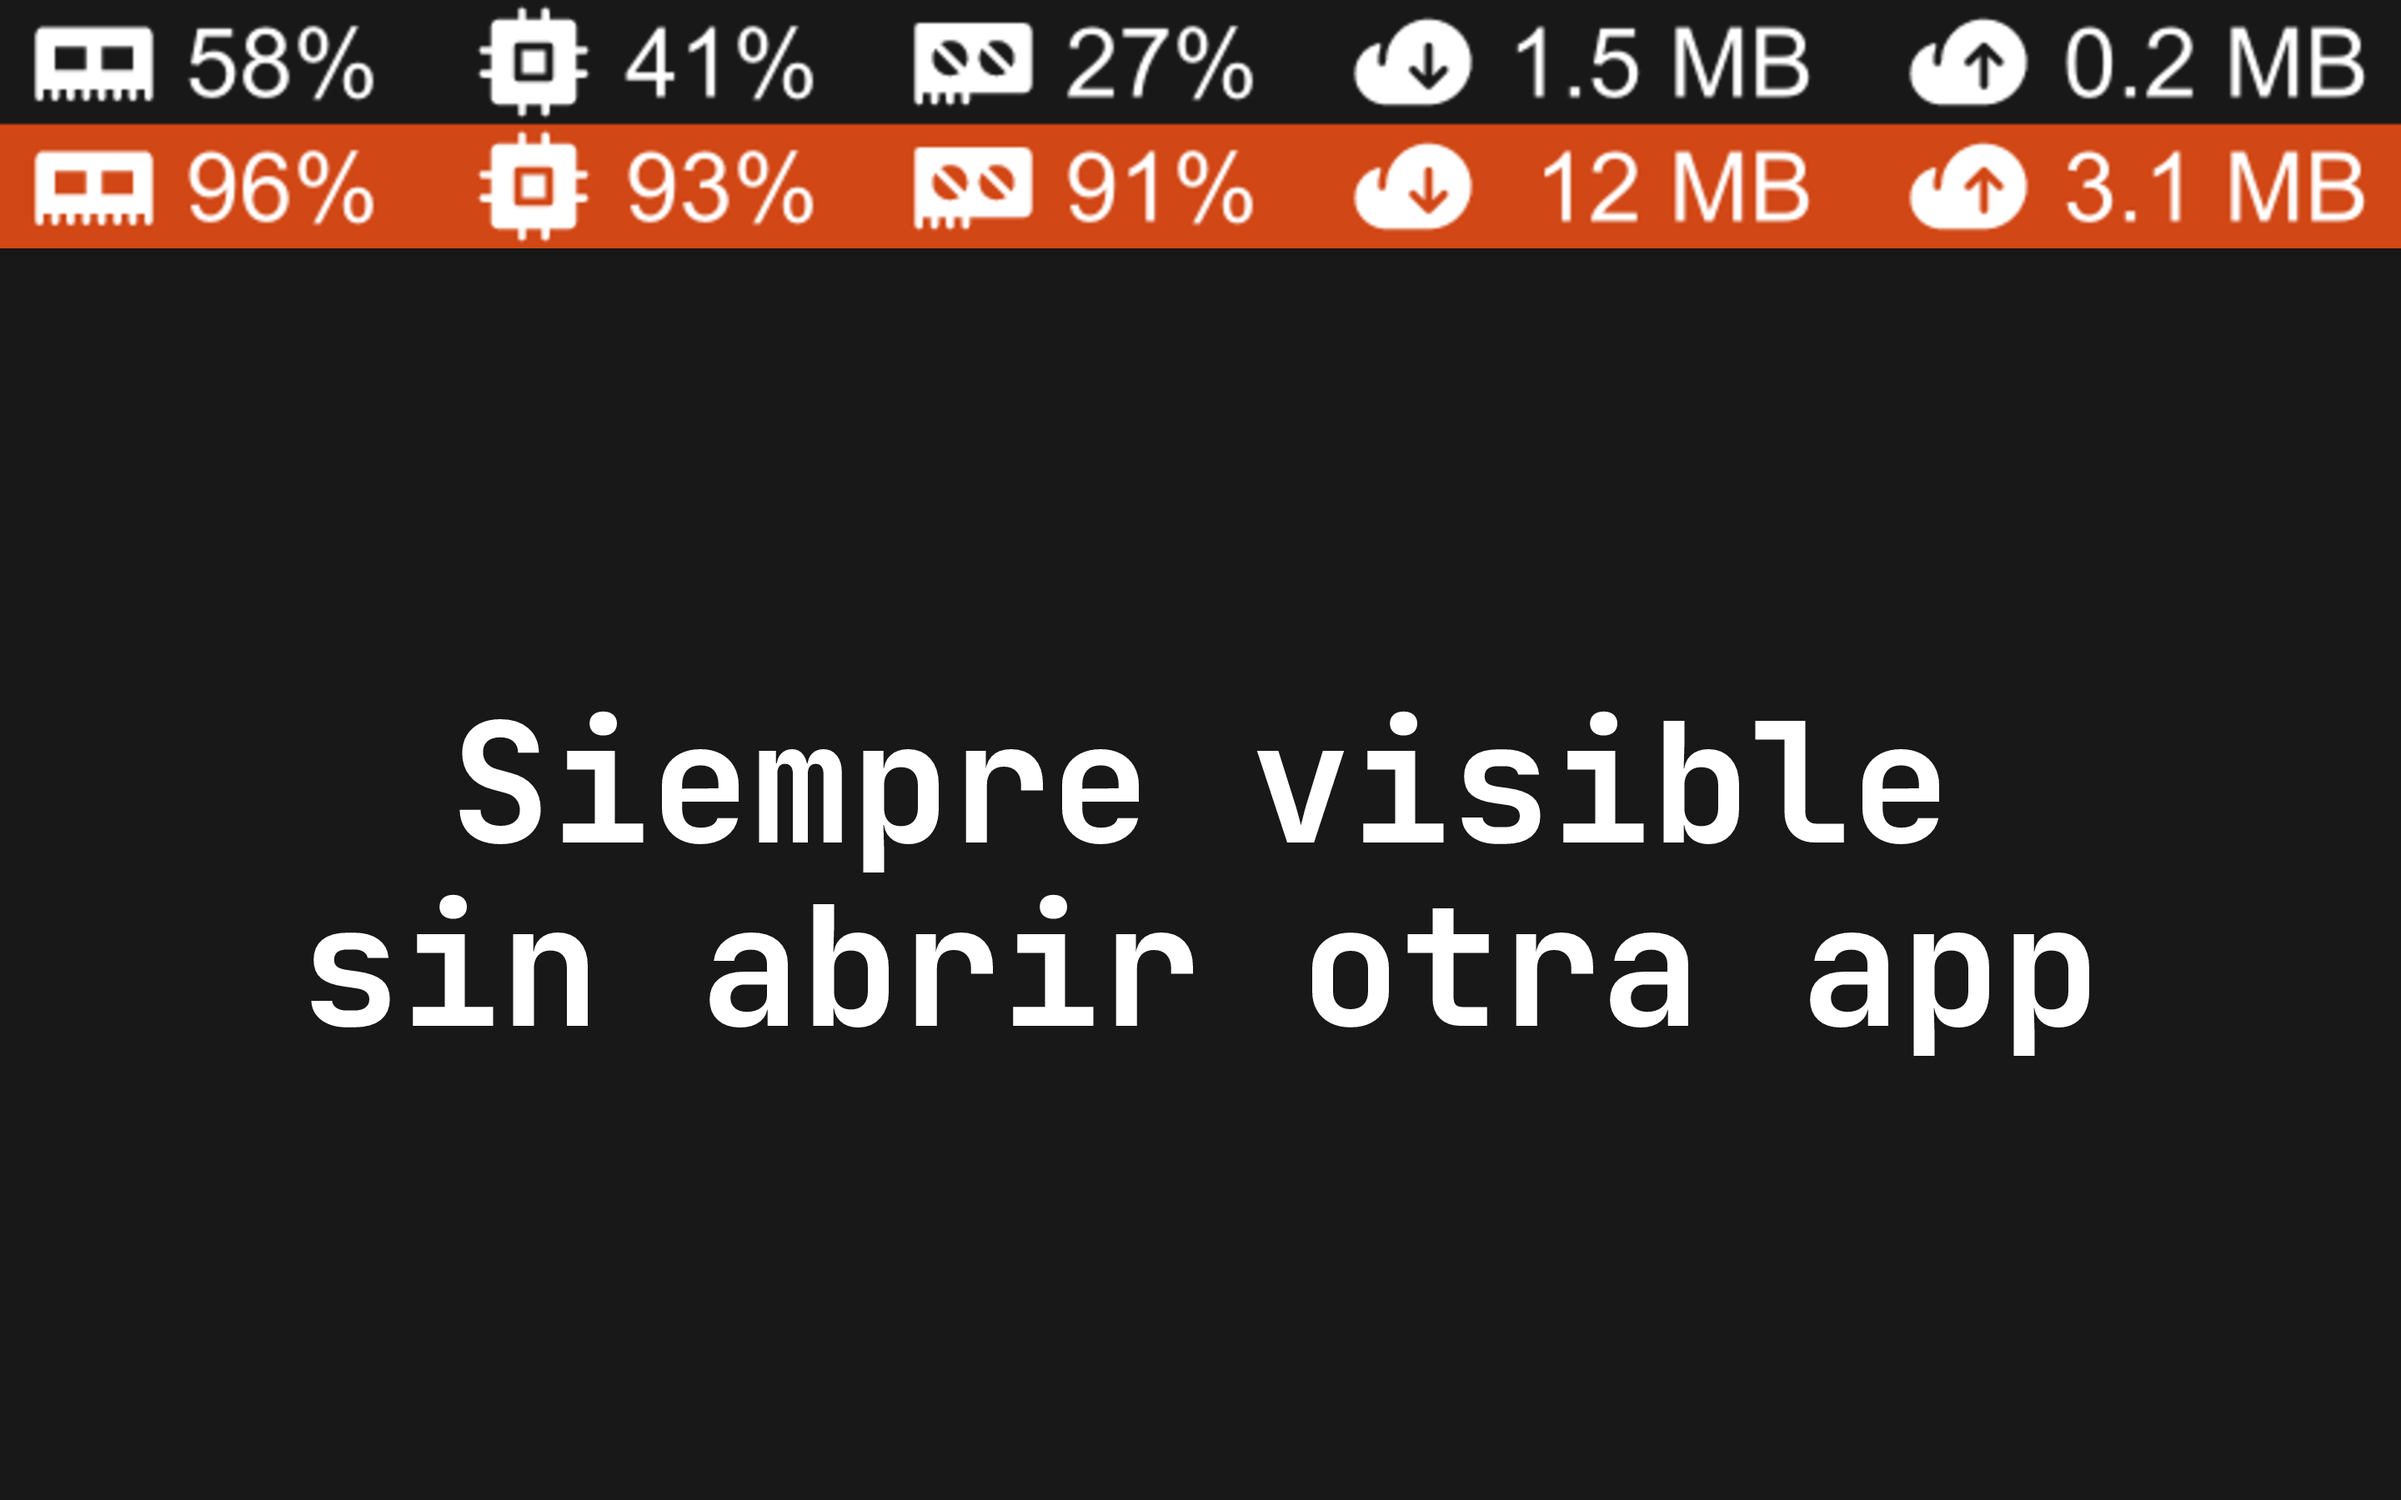
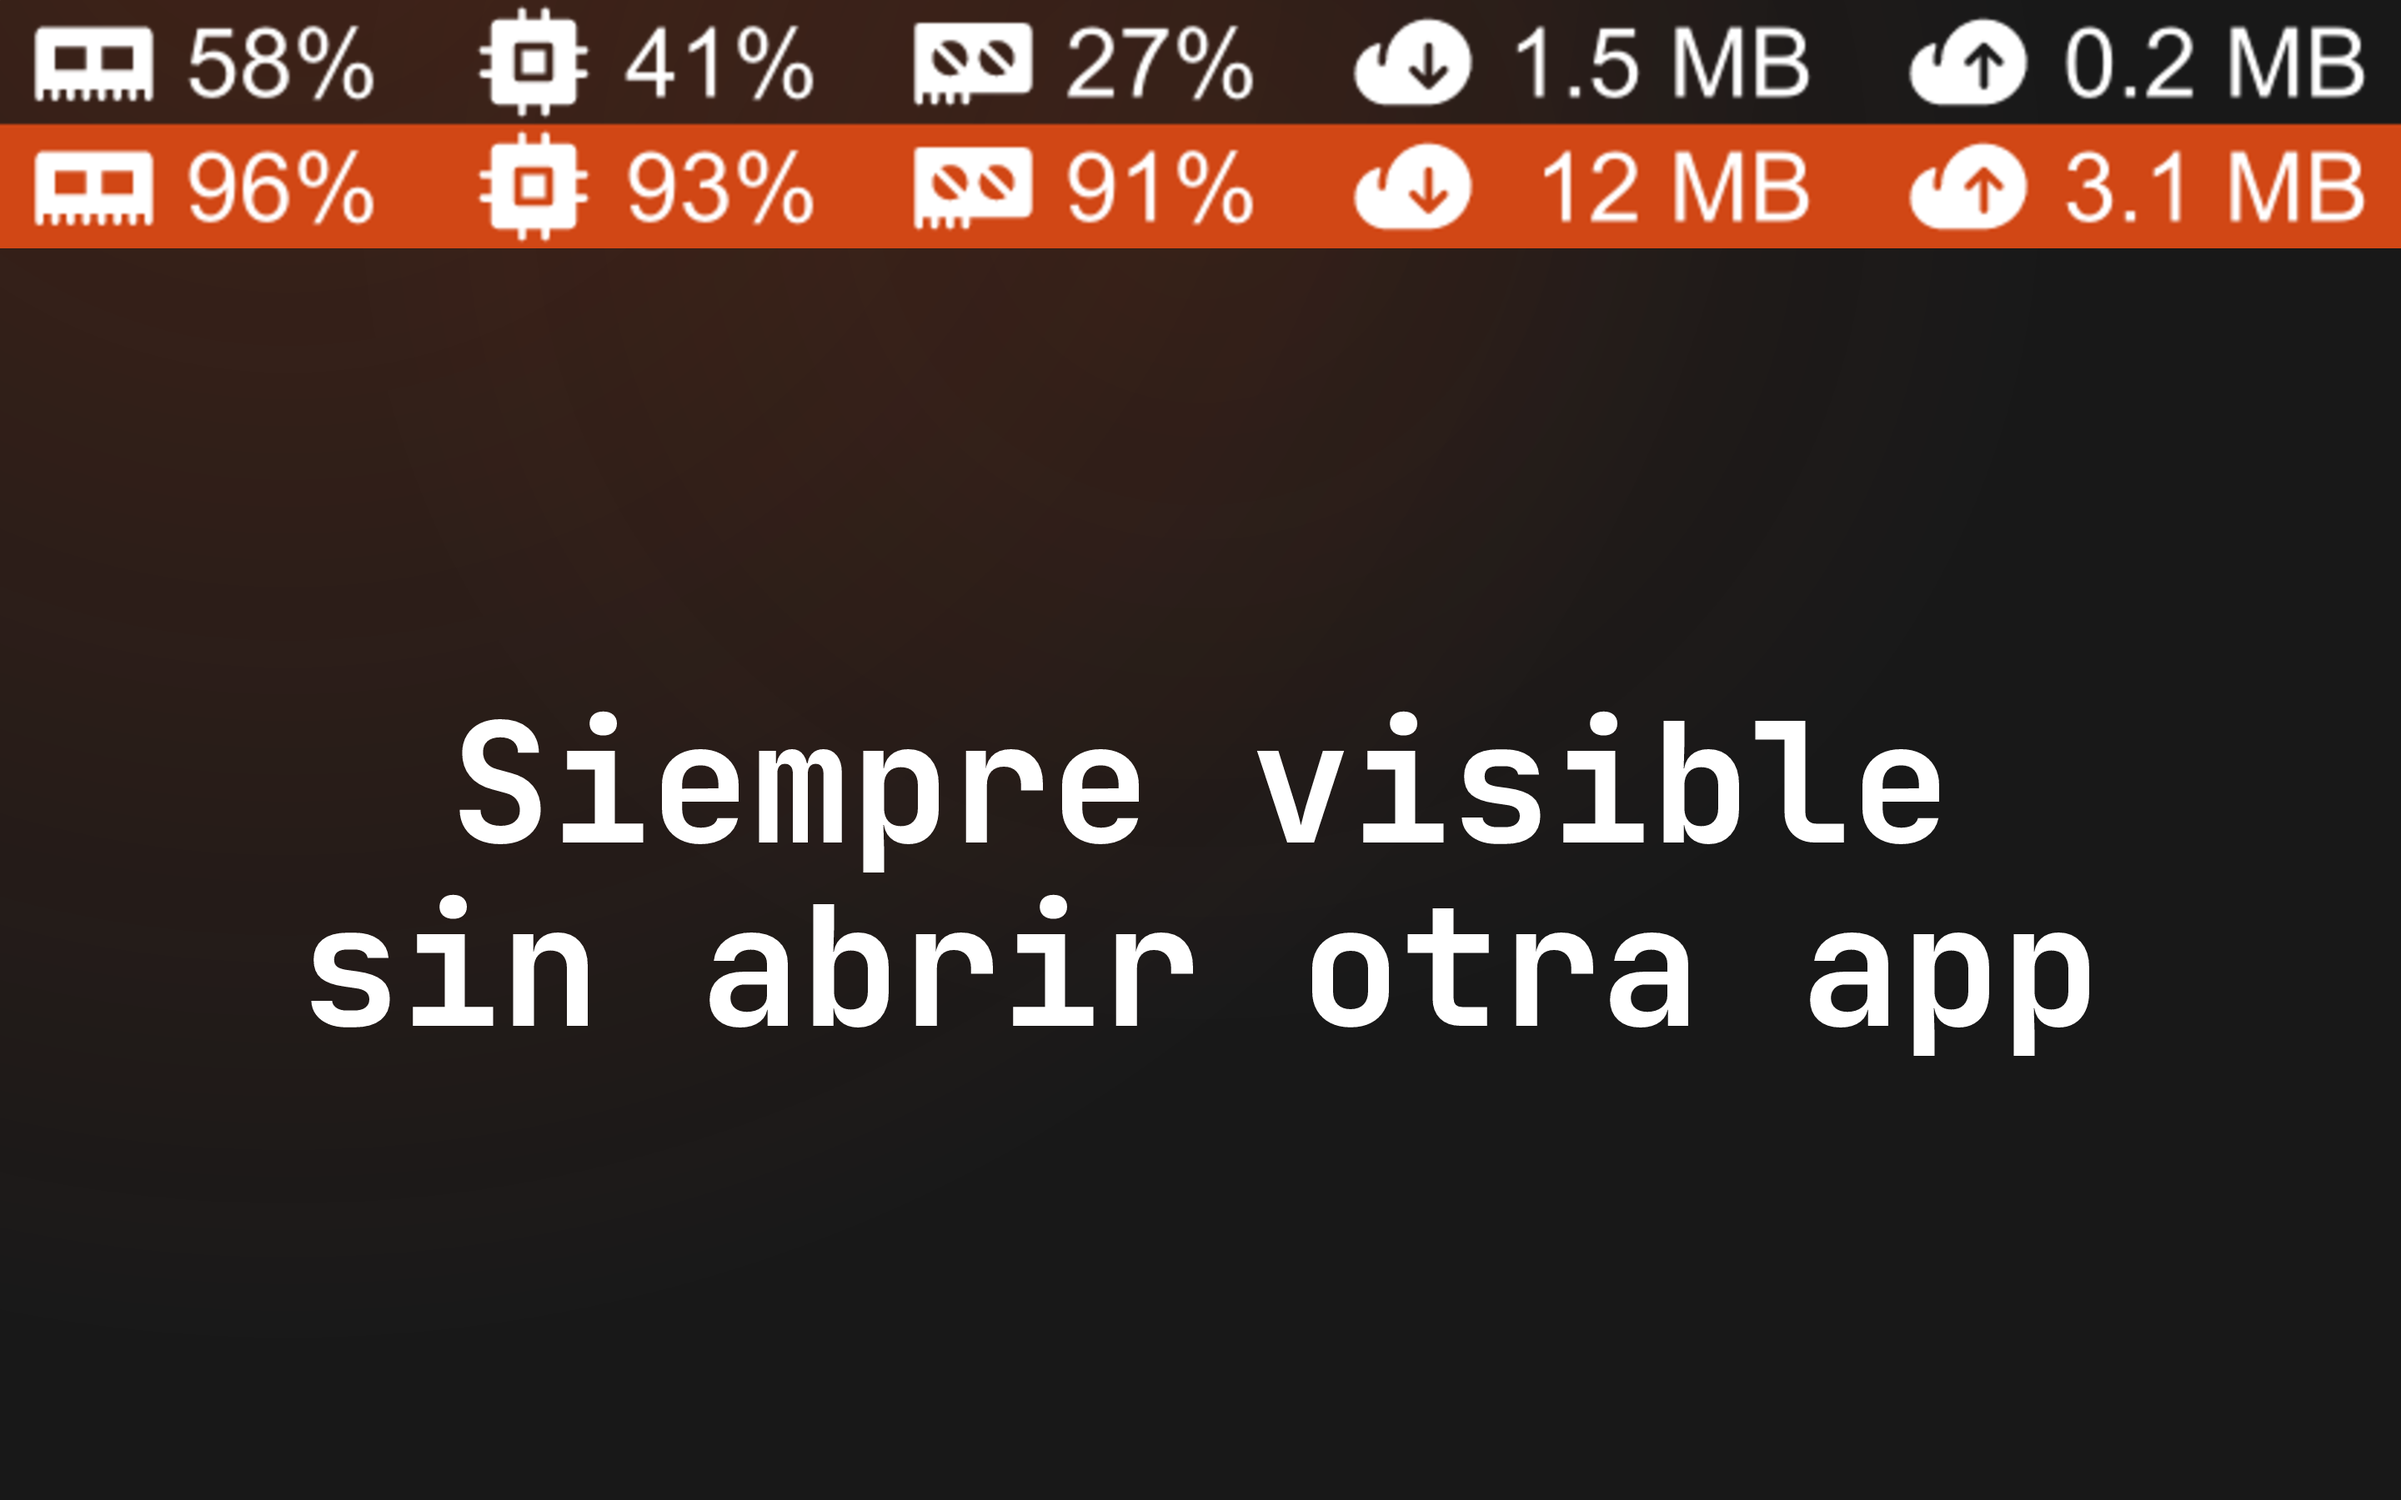
fix(content): update installation instructions for clarity across multiple languages

Changed region(s): [[0.0, 0.1556, 0.5625, 0.3733], [0.0, 0.0, 0.5938, 0.0933]]

diff --git a/www/src/pages/images/[id].png.ts b/www/src/pages/images/[id].png.ts
@@ -1,5 +1,5 @@
 import type { APIRoute, GetStaticPaths } from "astro";
-import { renderImage, colors, trayIconBase64 } from "../../lib/renderer";
+import { renderImage, colors, imageBackgroundStyle, trayIconBase64 } from "../../lib/renderer";
 import { appStoreScreenshots, supportedLangs, screenshotKeys, siteMarketingLocales, ogTitles, screenshotLangByLocale } from "../../lib/translations";
 import type { SiteMarketingLocale } from "../../lib/translations";
 
@@ -161,7 +161,7 @@ export const GET: APIRoute = async ({ props }) => {
         flexDirection: "column",
         alignItems: "center",
         justifyContent: showAppName ? "center" : "flex-start",
-        backgroundColor: colors.bg,
+        ...imageBackgroundStyle,
         fontFamily: "JetBrains Mono",
         padding: showAppName ? `0 ${s(140)}px` : "0",
       },

diff --git a/www/src/lib/renderer.ts b/www/src/lib/renderer.ts
@@ -14,6 +14,12 @@ export const colors = {
   border: "#3a3a3a",
 };
 
+export const imageBackgroundStyle = {
+  backgroundColor: colors.bg,
+  backgroundImage:
+    "radial-gradient(circle at 12% -10%, rgba(209, 71, 21, 0.22), rgba(209, 71, 21, 0) 56%), radial-gradient(circle at 50% 12%, rgba(209, 71, 21, 0.1), rgba(209, 71, 21, 0) 48%), linear-gradient(135deg, rgba(255, 255, 255, 0.035) 0px, rgba(255, 255, 255, 0.035) 1px, transparent 1px, transparent 18px)",
+};
+
 // Font cache — fetched once per build
 let fontData: ArrayBuffer | null = null;
 

diff --git a/www/src/content.config.ts b/www/src/content.config.ts
@@ -34,7 +34,8 @@ const ui = defineCollection({
     backToHome: z.string(),
 
     footer: z.object({
-      navigation: z.string(),
+      internalNavigation: z.string(),
+      externalNavigation: z.string(),
       faq: z.string(),
       comparison: z.string(),
       privacyPolicy: z.string(),

diff --git a/README.es.md b/README.es.md
@@ -34,11 +34,10 @@ Mantiene el uso de CPU, memoria, GPU y red directamente en la barra de menús, p
 
 Está pensado para quedarse abierto todo el día sin convertirse en parte del problema: menos del 0,1% de CPU en Apple Silicon, unos 15 MB de memoria y cero solicitudes de red.
 
-La parte técnica está ahí para respaldar esa experiencia. Se instala como una app normal de Mac, funciona en sandbox, está disponible en la Mac App Store con todas sus funciones y evita pedir contraseña de administrador o usar procesos auxiliares con permisos root.
 
 ## Instalación
 
-Descárgalo desde la <a href="https://apps.apple.com/app/better-resource-monitor/id6758237306" target="_blank">Mac App Store</a> (incluye actualizaciones automáticas) o descarga el `.dmg` desde <a href="https://github.com/alexx855/better-resource-monitor/releases" target="_blank">GitHub Releases</a>.
+Descárgalo desde la <a href="https://apps.apple.com/app/better-resource-monitor/id6758237306" target="_blank">Mac App Store</a> (incluye actualizaciones automáticas) o descarga el `.dmg` desde <a href="https://github.com/alexx855/better-resource-monitor/releases" target="_blank">GitHub Releases</a> (sin actualizaciones automáticas; descarga e instala manualmente cada nueva versión).
 
 ### Compatibilidad
 

diff --git a/README.md b/README.md
@@ -39,11 +39,10 @@ It keeps CPU, memory, GPU, and network usage in the menu bar, so you can catch u
 
 It is built to stay light enough to leave running all day: under 0.1% CPU on Apple Silicon, around 15 MB of memory, and zero network requests.
 
-The technical side is there to support that experience. It installs like a normal Mac app, stays sandboxed, ships on the Mac App Store with full features, and avoids admin-password prompts or background root helpers.
 
 ## Installation
 
-Get it from the <a href="https://apps.apple.com/app/better-resource-monitor/id6758237306" target="_blank">Mac App Store</a> (includes automatic updates) or grab the `.dmg` from <a href="https://github.com/alexx855/better-resource-monitor/releases" target="_blank">GitHub Releases</a>.
+Get it from the <a href="https://apps.apple.com/app/better-resource-monitor/id6758237306" target="_blank">Mac App Store</a> (includes automatic updates) or grab the `.dmg` from <a href="https://github.com/alexx855/better-resource-monitor/releases" target="_blank">GitHub Releases</a> (no automatic updates; download and update manually each version).
 
 ### Compatibility
 

diff --git a/README.pt-br.md b/README.pt-br.md
@@ -34,11 +34,10 @@ Ele mostra CPU, memória, GPU e rede direto na barra de menus, para você perceb
 
 Também foi feito para ser leve, para que o próprio monitor não vire parte do problema.
 
-A parte técnica existe para sustentar essa experiência: sem etapa de senha de administrador, sem helper root, sem APIs privadas, sem ícone no Dock, rodando em sandbox e disponível na Mac App Store com todos os recursos.
 
 ## Instalação
 
-Obtenha na <a href="https://apps.apple.com/app/better-resource-monitor/id6758237306" target="_blank">Mac App Store</a> (inclui atualizações automáticas) ou baixe o `.dmg` no <a href="https://github.com/alexx855/better-resource-monitor/releases" target="_blank">GitHub Releases</a>.
+Obtenha na <a href="https://apps.apple.com/app/better-resource-monitor/id6758237306" target="_blank">Mac App Store</a> (inclui atualizações automáticas) ou baixe o `.dmg` no <a href="https://github.com/alexx855/better-resource-monitor/releases" target="_blank">GitHub Releases</a> (sem atualizações automáticas; baixe e atualize manualmente cada versão).
 
 ### Compatibilidade
 

diff --git a/README.zh-cn.md b/README.zh-cn.md
@@ -34,11 +34,10 @@ Better Resource Monitor 适合那些只想用一种简单方式看看自己的 M
 
 它也被设计得足够轻量，这样监视器本身不会变成问题的一部分。
 
-技术上的选择是为了支撑这种体验：无需管理员密码步骤、无需 root 辅助工具、不使用私有 API、没有 Dock 图标、运行在沙盒中，并且以完整功能上架 Mac App Store。
 
 ## 安装
 
-从 <a href="https://apps.apple.com/app/better-resource-monitor/id6758237306" target="_blank">Mac App Store</a> 获取（包含自动更新），或从 <a href="https://github.com/alexx855/better-resource-monitor/releases" target="_blank">GitHub Releases</a> 下载 `.dmg` 文件。
+从 <a href="https://apps.apple.com/app/better-resource-monitor/id6758237306" target="_blank">Mac App Store</a> 获取（包含自动更新），或从 <a href="https://github.com/alexx855/better-resource-monitor/releases" target="_blank">GitHub Releases</a> 下载 `.dmg` 文件（不含自动更新；每个版本需手动下载更新）。
 
 ### 兼容性
 
